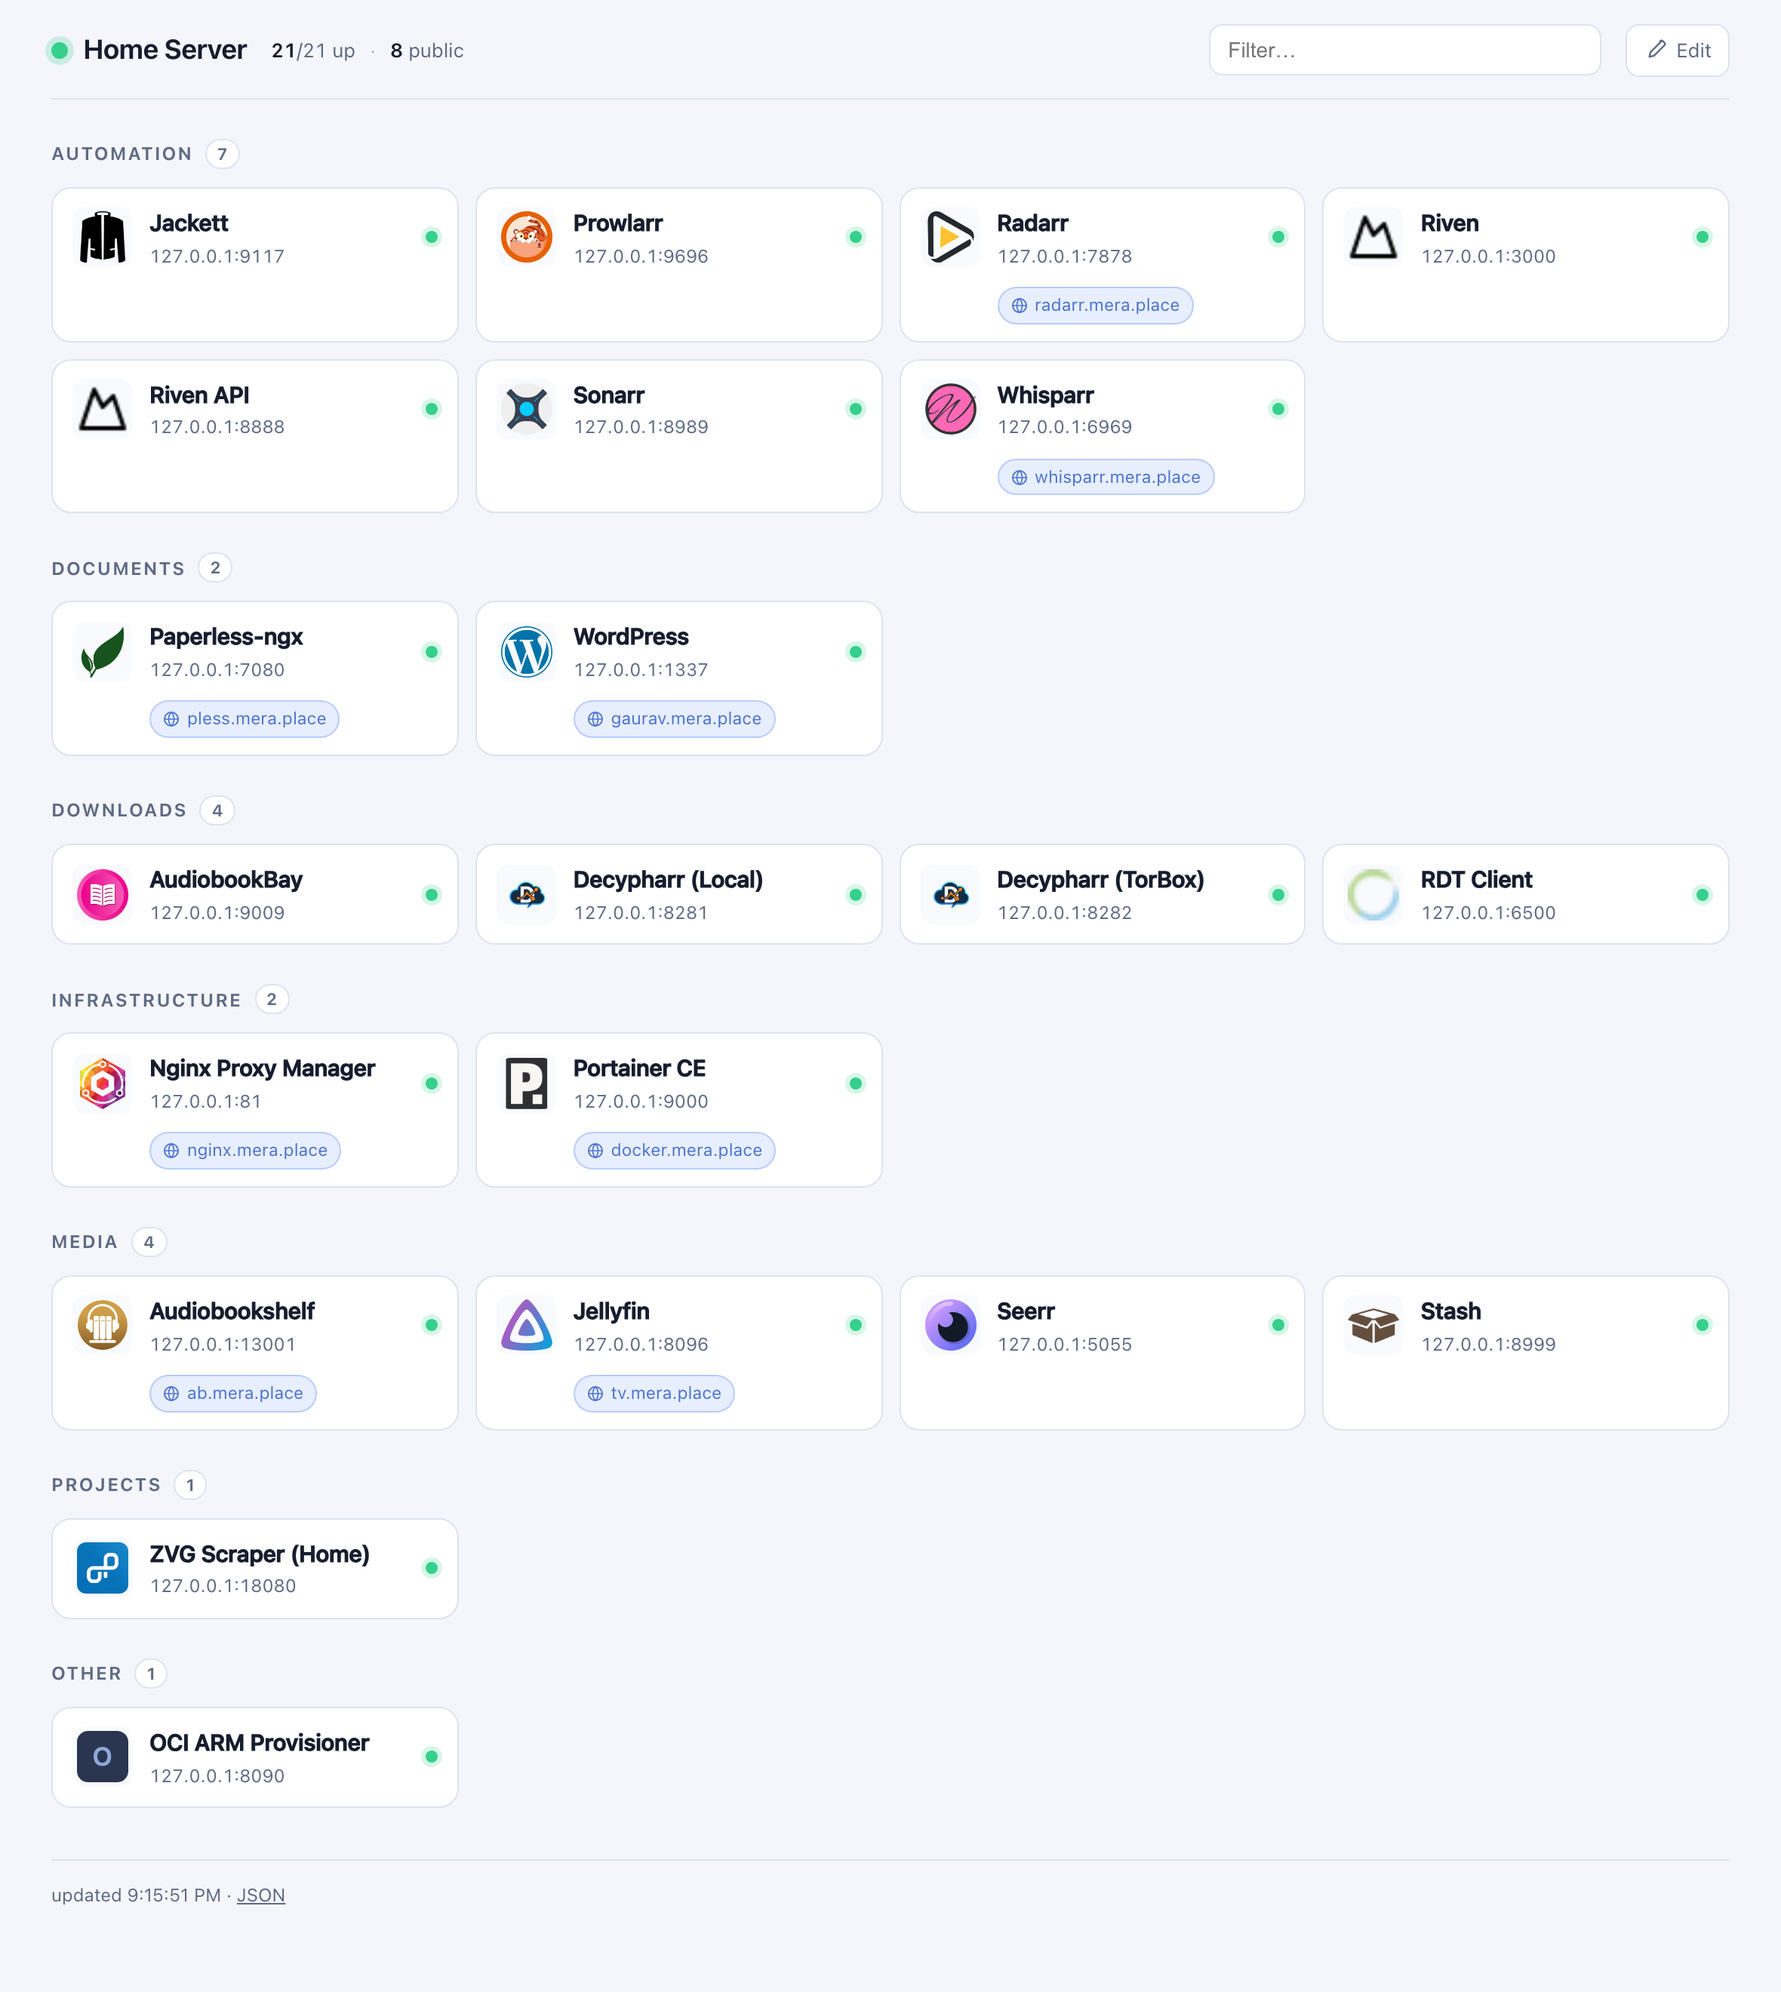
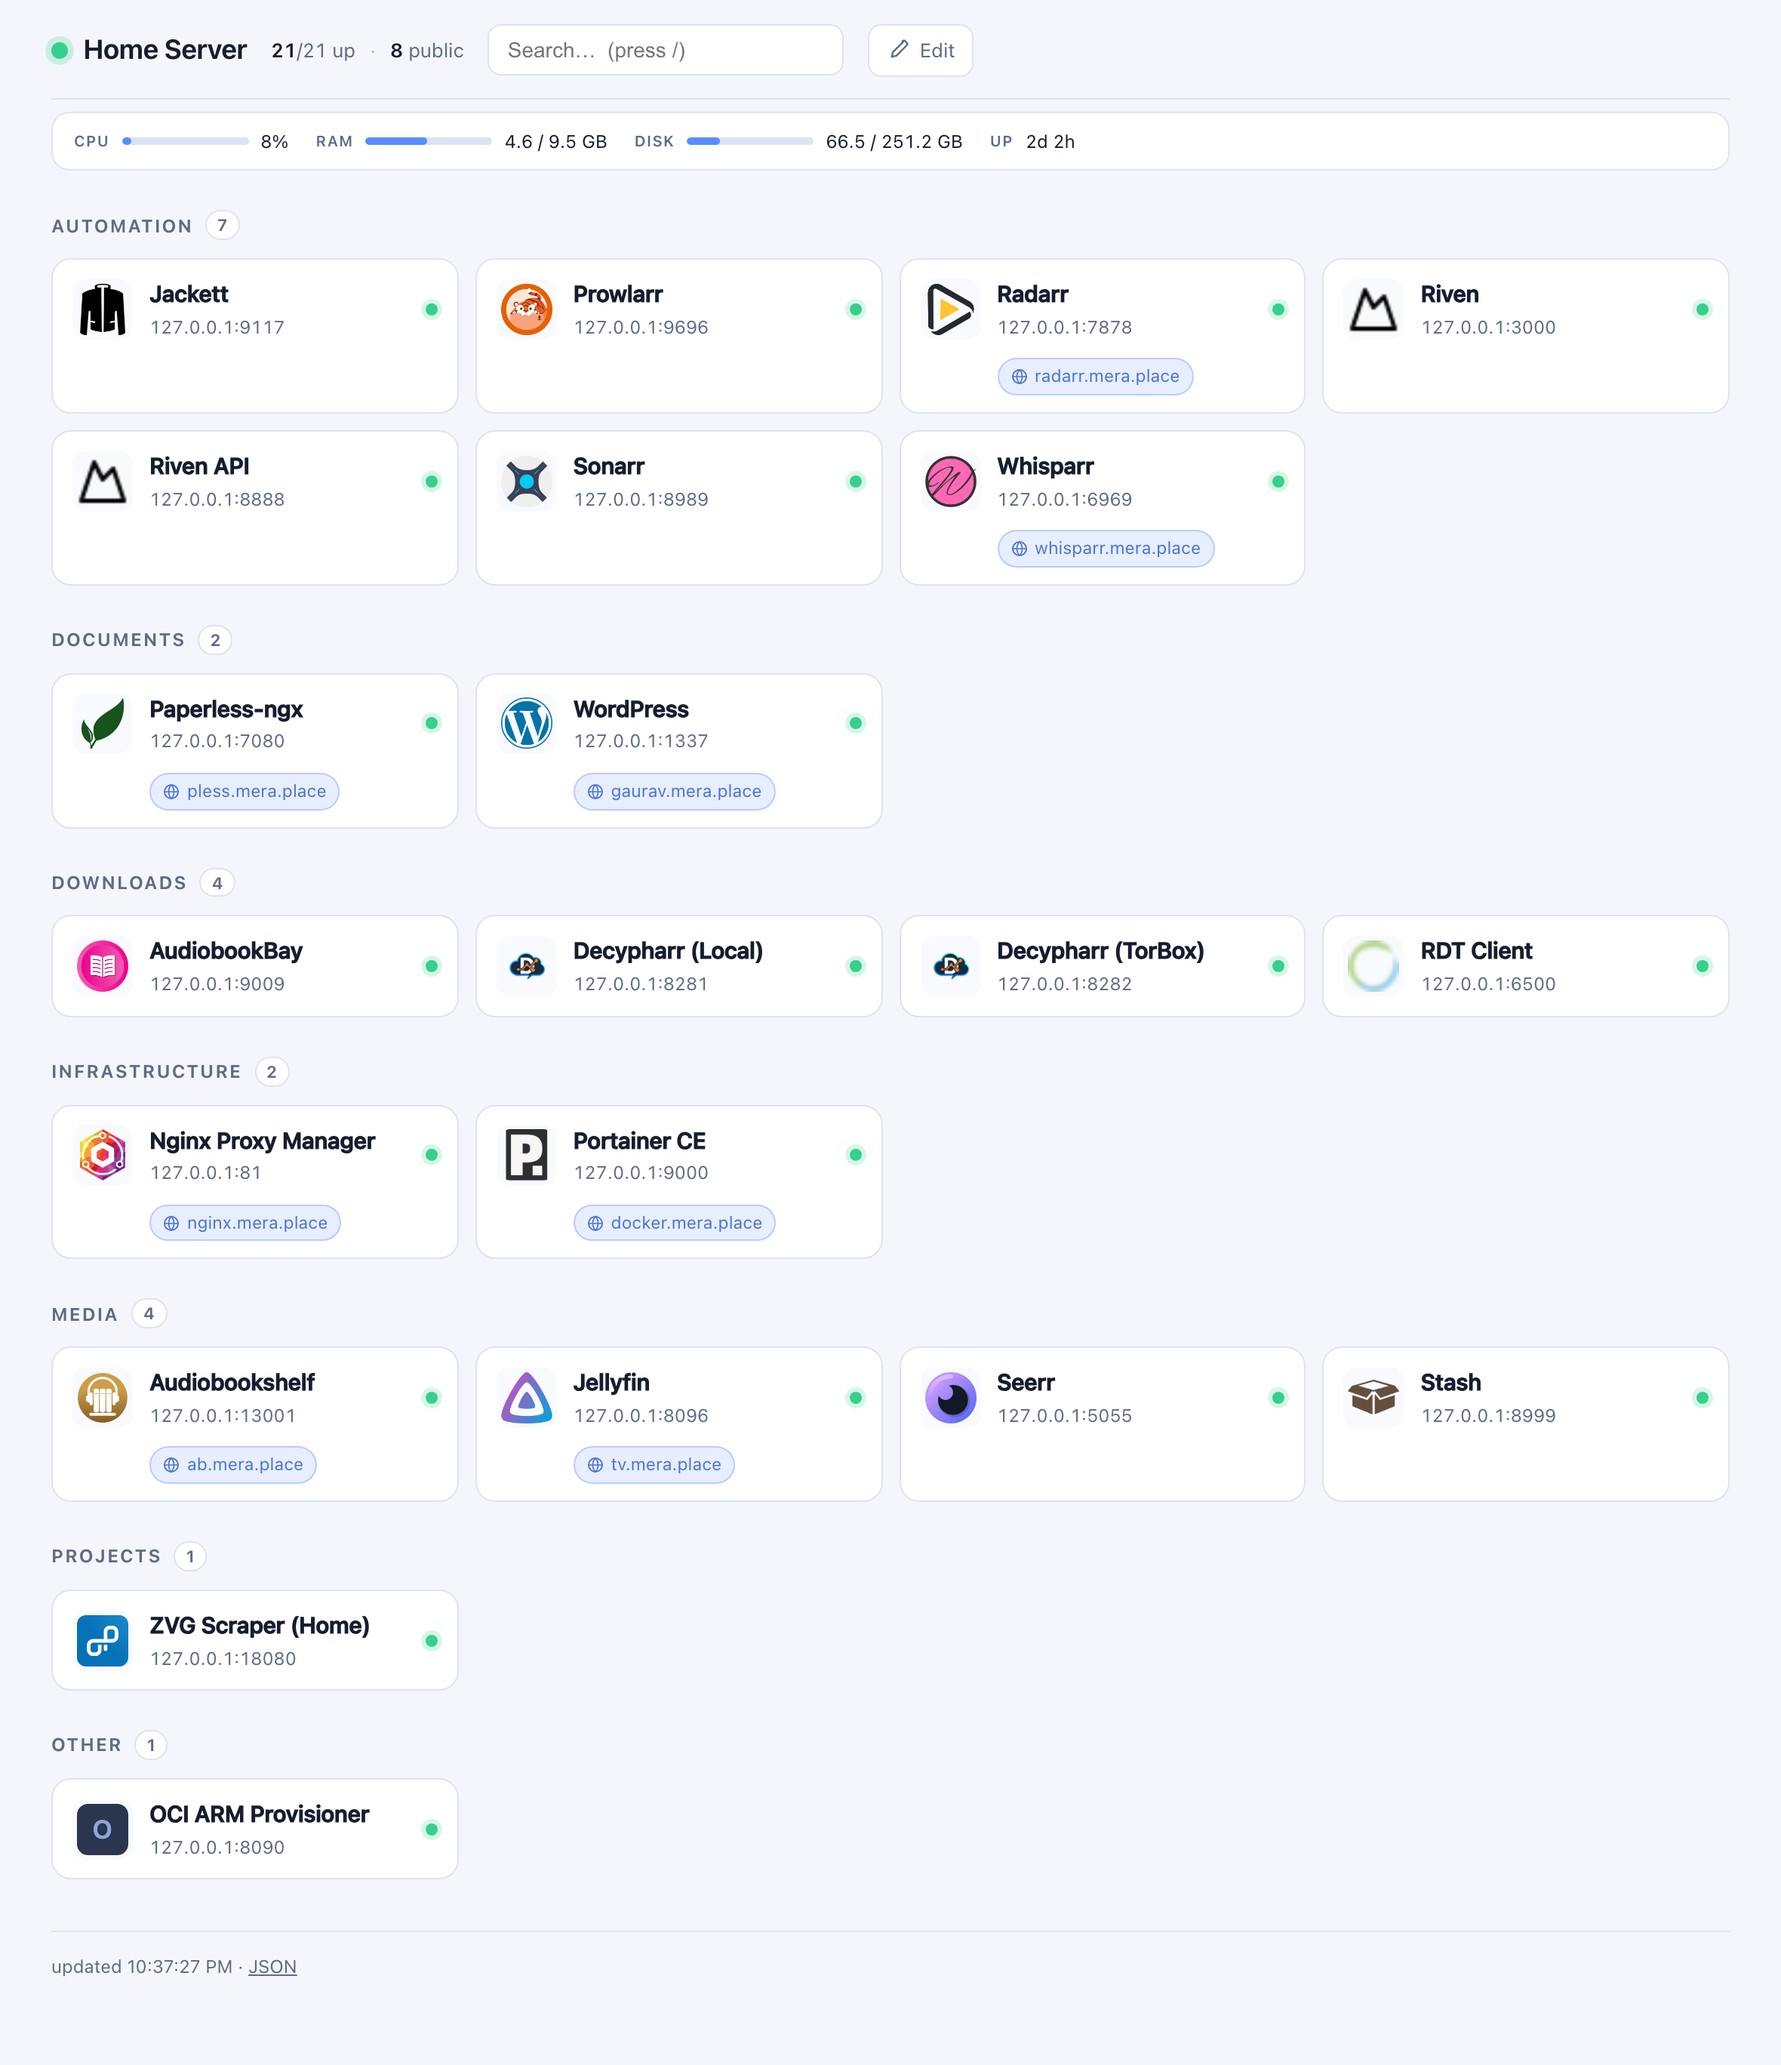
Add launch copy and refresh screenshots with the vitals strip
Screenshots retaken against the deployed build so the header strip and the
search affordance are visible. docs/launch-posts.md holds drafts for
r/selfhosted, Show HN and r/HomeAssistant, a posting order, and prepared
answers for the questions that will come -- including the socket-is-root
one, which is better answered straight than defended.

diff --git a/docs/launch-posts.md b/docs/launch-posts.md
@@ -1,0 +1,233 @@
+# Launch copy
+
+Drafts for sharing the project, plus where to post and in what order. Written to
+be pasted with light edits — the numbers and claims in them are all things the
+README backs up, so nothing here needs softening later.
+
+The single positioning sentence everything else hangs off:
+
+> Every other self-hosted dashboard asks you to tell it what you are running.
+> This one reads it off the Docker socket and figures it out.
+
+---
+
+## Where to post, in order
+
+Post in this sequence. Each stop is a bigger, less forgiving audience than the
+last, and the feedback from the small ones is what makes the big one survive.
+
+| # | Where | Why here | Notes |
+| --- | --- | --- | --- |
+| 1 | **r/selfhosted** (~600k) | the exact audience; dashboards do well there | Best on a weekday morning US time. Read the rules — they want the GitHub link in the post, not just a screenshot. Lead with the GIF. |
+| 2 | **r/homelab** (~1M) | overlaps heavily, skews toward hardware | Post a few days later, not the same day. Frame it toward "I stopped maintaining a service list", not "look at my CSS". |
+| 3 | **r/docker** (~250k) | the *mechanism* is the story here | The `get_archive()` trick and label reading are the hook. This crowd will actually care that `/proc` isn't namespaced. |
+| 4 | **Hacker News** — Show HN | biggest reach, harshest audience | Go here **last**, once the first three have shaken out the obvious bugs. Weekday, ~8–10am ET. One technical hook, no marketing voice. |
+| 5 | **r/HomeAssistant** (~200k) | narrower, genuinely useful angle | Only post the *iframe card* angle here, not the whole project. Anything else reads as off-topic. |
+| 6 | **awesome-selfhosted** | long-tail discovery | A PR, not a post. Needs the project to be a few weeks old with some activity. |
+| 7 | **r/Traefik**, **r/nginxproxymanager** | small but perfectly matched | Post only after the proxy support has survived a few strangers' setups. |
+| 8 | **Lobsters** (if you have an invite) | thoughtful, low-volume | Tag `devops`, `web`. Same copy as HN works. |
+
+Two things worth doing **before** any of it: make sure the repo has a
+description and topics set (`docker`, `homelab`, `self-hosted`, `dashboard`,
+`traefik`, `nginx-proxy-manager`), and be ready to answer within the first hour.
+The first three comments decide whether a thread lives.
+
+---
+
+## r/selfhosted
+
+**Title:** I got tired of maintaining a list of my own services, so I built a dashboard that just reads the Docker socket
+
+**Body:**
+
+Every dashboard I tried — Homepage, Homarr, Dashy, Homer — wanted me to tell it
+what I'm running. Either a `homepage.*` label on every container, or a YAML file
+listing each service, or dragging every tile into place by hand. It's not much
+work per service, but it's work *forever*: every new container is a second job,
+and mine drifted out of date within a month.
+
+So I built one that derives everything from the daemon:
+
+- **Names** come from the OCI title label, falling back to the image name, then
+  the compose service. Two containers of the same image get disambiguated
+  automatically (my two Decypharr instances became "Decypharr (Local)" and
+  "Decypharr (TorBox)" without me typing anything).
+- **Icons** come from dashboard-icons, and when there's no match it fetches the
+  service's *own favicon* and caches it. Only then does it fall back to a
+  generated letter tile.
+- **Categories** come from a built-in table of common self-hosted apps.
+- **Public URLs** come from the reverse proxy. For Nginx Proxy Manager it reads
+  the generated server blocks **through the Docker API's archive endpoint** —
+  the same thing `docker cp` uses — so there's no bind mount and no host path to
+  configure, and it works when the config is in a named volume. For Traefik and
+  caddy-docker-proxy it reads the routing labels off the containers themselves,
+  via the socket. No compose files are parsed and the proxy's API is never
+  queried, so it works even when the Traefik dashboard is disabled.
+- **LAN links** are built from the `Host` header of each request, so browsing by
+  LAN IP gives LAN links and browsing over Tailscale gives tailnet links. No
+  address is stored anywhere and there's nothing to configure when it changes.
+- **Host CPU/RAM/disk/uptime**, with no extra mounts — Docker doesn't namespace
+  `/proc/stat`, `/proc/meminfo` or `/proc/uptime`, so a plain container reads
+  the host's real numbers through its own `/proc`.
+
+The whole config is a socket mount:
+
+```yaml
+services:
+  dashboard:
+    image: ghcr.io/gauravsuman007/homelab-dashboard:latest
+    ports: ['8500:8500']
+    volumes:
+      - /var/run/docker.sock:/var/run/docker.sock:ro
+```
+
+Where the guess is wrong, you fix it *in the page* — rename a service, change
+the icon, drag it into another category, make new categories. That's stored and
+permanent, and everything you didn't touch keeps deriving itself. So there's no
+config file that goes stale, because there's no config file.
+
+On my box it found 22 services with an empty config directory. Building the
+auto-derivation actually turned up two mistakes in the hand-written list I'd
+been maintaining, which is what convinced me the derived version was the better
+one.
+
+Multi-arch (amd64/386/armv7/arm64), MIT, no telemetry, no account, no cloud
+anything. It's LAN-first: it ships an nginx snippet that restricts access to
+your LAN plus your tailnet.
+
+**It is not a Homepage replacement** — there are no per-service API widgets, no
+Sonarr queue counts. If you want those, Homepage and Homarr are genuinely better
+and I'd point you at them. This is for the case where you just want the list of
+what's running to be correct without maintaining it.
+
+[GitHub link] — happy to answer anything, and I'd like to know which reverse
+proxies people want next.
+
+---
+
+## Hacker News (Show HN)
+
+**Title:** Show HN: A homelab dashboard that configures itself from the Docker socket
+
+**Body:**
+
+Self-hosted dashboards all have the same shape: you keep a list of your services
+in YAML, or you put a label on every container, or you place every tile by hand.
+The list then drifts out of date, because maintaining it is a chore with no
+deadline.
+
+This one keeps no list. It derives the page from the Docker daemon on every
+scan, so the page is a *view* of the machine rather than a document about it.
+
+Three implementation details that might be interesting:
+
+1. **Reading the reverse proxy's config without a bind mount.** Nginx Proxy
+   Manager writes generated server blocks inside its own container. Rather than
+   asking the user to mount that path, it pulls them out through the Docker
+   API's archive endpoint — what `docker cp` is built on. There's no host path
+   to know, and it works when the config lives in a named volume. Traefik and
+   caddy-docker-proxy don't need even that: their routing table is labels on the
+   proxied containers, which already arrived with the container list, so it
+   costs no extra API call and can't go stale between scans.
+
+2. **Working out which IPs mean "this box"** — needed to tell "this proxy host
+   points at a local service" from "it points at the NAS". A bridge-networked
+   container can't read the host's interfaces. It combines the Docker network
+   gateways, the addresses visitors actually arrive on (from the `Host` header),
+   and a heuristic over the proxy config: an address is this host if **two or
+   more** proxy entries point at it on ports this box publishes. One match is a
+   coincidence; two is an identity.
+
+3. **Host stats with no extra mounts.** Docker doesn't namespace `/proc/stat`,
+   `/proc/meminfo` or `/proc/uptime`. An unprivileged container reads the host's
+   real numbers straight out of its own `/proc`; CPU count and total memory come
+   from `docker info`, which stays correct even where `/proc` is virtualised by
+   lxcfs.
+
+Service URLs are never stored. They're assembled per request from the `Host`
+header, so the same page yields LAN links over LAN and tailnet links over
+Tailscale, with nothing configured and nothing to update when an address
+changes.
+
+Derivation gets things wrong sometimes, so the page is editable — rename, re-icon,
+drag between categories — and those edits are the only thing persisted. Notably,
+building the derivation surfaced two errors in the hand-maintained list I'd been
+using: one image shipped its OCI title as a pull reference (`hotio/whisparr:v3`)
+rather than a product name, and two containers of one image collided into
+identical cards.
+
+Python/Flask, ~1,500 lines, MIT, multi-arch images. The one input is
+`/var/run/docker.sock`.
+
+[GitHub link]
+
+---
+
+## r/HomeAssistant (iframe angle only)
+
+**Title:** Lean way to get a live view of all your Docker services as a dashboard card
+
+**Body:**
+
+I wanted my running containers as a Lovelace card without maintaining a second
+copy of the list. Rather than write a custom card, I made the page itself
+embeddable:
+
+```yaml
+type: iframe
+url: http://<server>/?embed=1&compact=1
+aspect_ratio: 75%
+```
+
+`embed=1` strips the header and footer, `compact=1` tightens the tiles, and
+`theme=dark|light` pins the palette (it follows the device otherwise). You can
+also pass `category=Media,Downloads` to get several small focused cards instead
+of one big one.
+
+Because the card *is* the live page rather than a synced copy, renames, icon
+changes and category moves show up with no sync code at all. The page itself
+gets its service list from the Docker socket, so new containers appear on their
+own.
+
+Two caveats worth knowing: an `http://` iframe inside an HTTPS Home Assistant
+gets blocked by the browser as mixed content, and the iframe is fetched by your
+*browser*, not by HA — so the viewing device has to be able to reach the
+dashboard (fine on LAN or tailnet, empty card over Nabu Casa remote access).
+
+[GitHub link]
+
+---
+
+## Answers to have ready
+
+These will come up. Better to have the honest version written down now than to
+improvise it defensively at hour two.
+
+**"Why not just use Homepage?"** — If you want service widgets, do. Homepage's
+discovery needs a `homepage.*` label per container; this needs nothing. Those
+are different products for different itches, and I say so in the README.
+
+**"Mounting the Docker socket is a security risk."** — Correct, and worth being
+straight about: socket access is root-equivalent on the host, and `:ro` protects
+the socket file, not the API. It only ever reads (list, inspect, archive), never
+writes. If that's not acceptable, put a socket proxy in front of it and restrict
+it to `GET`. The README says this rather than hiding it.
+
+**"Does it work with Traefik/Caddy/Pangolin/plain nginx?"** — NPM, Traefik and
+caddy-docker-proxy today. Traefik file-provider routes, hand-written Caddyfiles
+and plain nginx aren't parsed. Adding a proxy is a table entry plus a parser, and
+I'd rather add the one people actually want than guess.
+
+**"Isn't this just X?"** — The closest things I found are two near-unknown
+projects: one reads NPM's API but needs a service account plus hand-written tag
+comments per proxy host, and another port-scans 1–65535 and screenshots each
+service with Playwright. Neither derives identity from container metadata. Every
+popular dashboard requires a manual list.
+
+**"Does it phone home / need an account?"** — No, and no. It fetches icons from
+the dashboard-icons CDN and can fetch a service's favicon from your own LAN;
+both can be turned off.
+
+**"Why Python and not Go?"** — A single binary would be nicer to ship. The
+discovery logic is the interesting part and it's easier to read this way; the
+image is multi-arch either way. Not religious about it.
